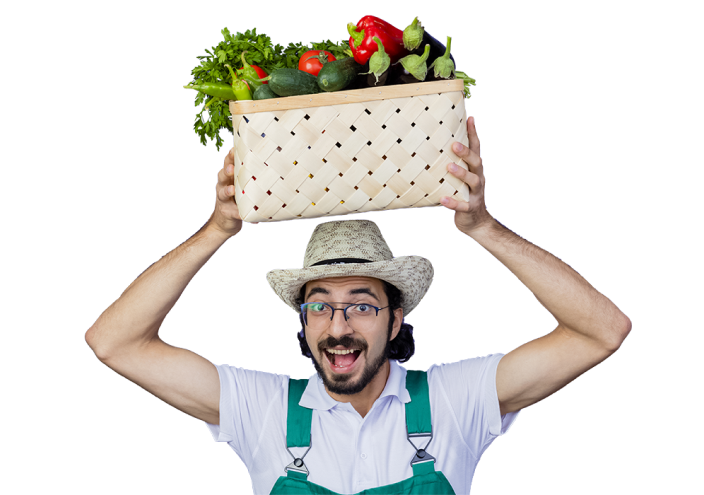
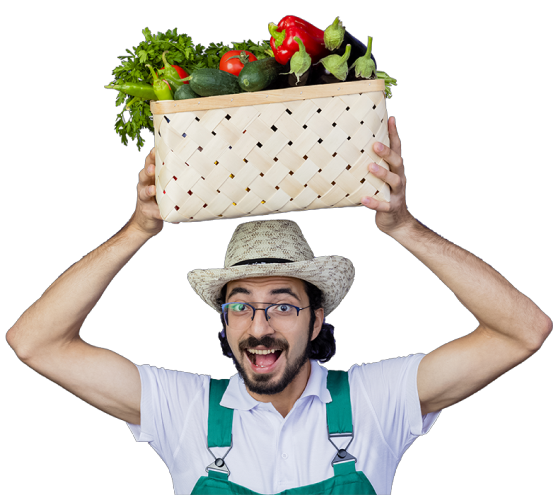
home scroll fixed

diff --git a/src/pages/Home/Home.jsx b/src/pages/Home/Home.jsx
@@ -1,11 +1,11 @@
-import ProductCard from "../../components/common/Cards/ProductCard";
-import FeaturedProducts from "./FeaturedProducts";
-import Video from "../../components/common/video/video";
-import SendEmail from "../../components/common/sendEmail/sendEmail";
-import LatestCard from "../../components/common/Cards/LatestCard";
-import { useEffect, useState } from "react";
-import OurSpecial from "./components/OurSpecial";
-import Timer from "./components/timer";
+import ProductCard from '../../components/common/Cards/ProductCard'
+import FeaturedProducts from './FeaturedProducts'
+import Video from '../../components/common/video/video'
+import SendEmail from '../../components/common/sendEmail/sendEmail'
+import LatestCard from '../../components/common/Cards/LatestCard'
+import { useEffect, useState } from 'react'
+import OurSpecial from './components/OurSpecial'
+import Timer from './components/timer'
 
 const data = {
   name: 'Green Apple',
@@ -30,14 +30,13 @@ const data = {
 
 const vegetablesData = ['All', 'Vegetables', 'Fruit', 'Meat & Fish', ' View All']
 const Home = () => {
-  
   useEffect(() => {
     window.scrollTo(0, 0)
   }, [])
 
-   const [matches , setMatches] = useState(window.matchMedia("(min-width: 570px)").matches)
-   window.matchMedia("(min-width: 570px)").addEventListener('change', (e) => setMatches(e.matches));
-   
+  const [matches, setMatches] = useState(window.matchMedia('(min-width: 570px)').matches)
+  window.matchMedia('(min-width: 570px)').addEventListener('change', (e) => setMatches(e.matches))
+
   return (
     <div>
       <div className="bg-[#EDF2EE] py-[100px]">
@@ -75,10 +74,10 @@ const Home = () => {
       <OurSpecial />
 
       <div className="bg-slate-300 ">
-        <div className="mx-auto w-[1520px] flex overflow-hidden items-center justify-between py-20">
+        <div className="mx-auto w-[1518px] flex overflow-hidden items-center justify-between py-20">
           <img className="w-[521px] h-[308px]" src="/assets/images/special/special_left.png" alt="" />
           <Timer />
-          <img className="w-[704px] h-[495px] " src="/assets/images/special/special_right.png" alt="" />
+          <img className="w-[700px] mb-[-80px]" src="/assets/images/special/special_right.png" alt="" />
         </div>
       </div>
 
